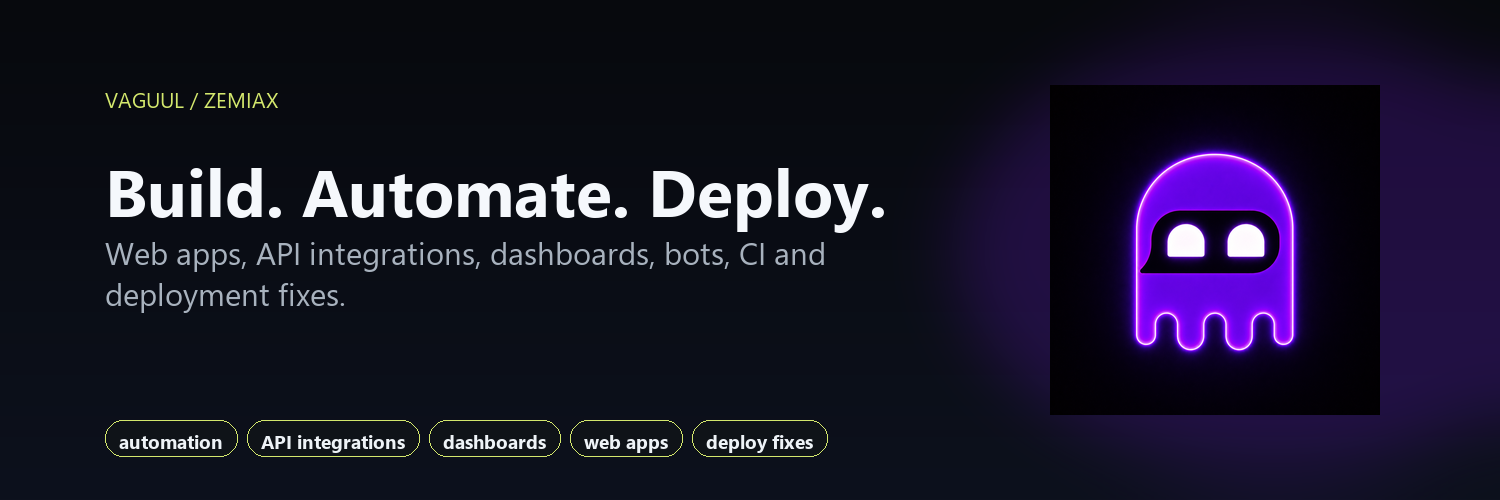
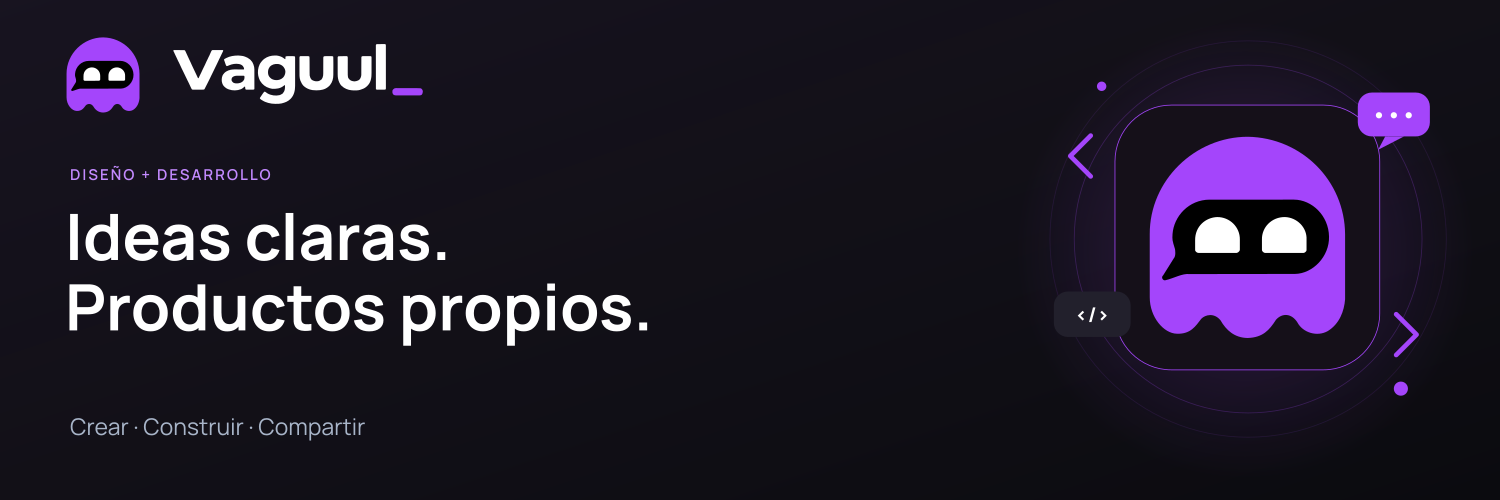
Apply approved Vaguul branding assets (#7)

diff --git a/index.html b/index.html
@@ -9,15 +9,16 @@
     <meta property="og:description" content="Automation, bot tooling, and self-hosted applications. Public code and selected contributions." />
     <meta property="og:type" content="website" />
     <meta property="og:url" content="https://vaguul.github.io/portfolio/" />
-    <meta property="og:image" content="https://vaguul.github.io/portfolio/assets/vaguul-github-banner.png" />
+    <meta property="og:image" content="https://vaguul.github.io/portfolio/assets/vaguul-social.png?v=20261113" />
     <meta name="twitter:card" content="summary_large_image" />
-    <link rel="stylesheet" href="./styles.css" />
+    <link rel="icon" type="image/svg+xml" href="./assets/favicon.svg?v=20261113" />
+    <link rel="stylesheet" href="./styles.css?v=20261113" />
   </head>
   <body>
     <a class="skip-link" href="#main" data-i18n="skip">Skip to content</a>
     <div class="page-shell">
       <header class="topbar">
-        <a class="brand" href="#top">Vaguul</a>
+        <a class="brand" href="#top" aria-label="Vaguul"><img src="./assets/vaguul-logo.svg?v=20261113" alt="Vaguul" width="150" height="50" /></a>
         <nav class="topnav" aria-label="Primary">
           <a href="#public" data-i18n="navPublic">Public code</a>
           <a href="#work" data-i18n="navWork">Products</a>
@@ -42,7 +43,7 @@
             <a href="https://github.com/Daebor">Daebor</a>
             <a href="#contact" data-i18n="contactLink">Work with me</a>
           </div>
-          <img class="brand-banner" src="./assets/vaguul-github-banner.png" alt="Vaguul / Zemiax — web apps, APIs and automation" width="1200" height="400" decoding="async" />
+          <img class="brand-banner" src="./assets/vaguul-github-banner.png?v=20261113" alt="Vaguul — diseño y desarrollo" width="1200" height="400" decoding="async" />
         </section>
 
         <section class="section" id="public" aria-labelledby="public-title">

diff --git a/styles.css b/styles.css
@@ -4,7 +4,7 @@
   --text: #f0f1f2;
   --muted: #b5b9bd;
   --line: #303337;
-  --accent: #d4e86d;
+  --accent: #c38aff;
 }
 * { box-sizing: border-box; }
 html { scroll-behavior: smooth; }
@@ -17,11 +17,12 @@ a:focus-visible, button:focus-visible { outline: 2px solid var(--accent); outlin
 .skip-link:focus { top: 12px; }
 .topbar { display: flex; align-items: center; gap: 24px; flex-wrap: wrap; padding: 24px 0; border-bottom: 1px solid var(--line); }
 .brand { font-weight: 700; text-decoration: none; color: var(--accent); white-space: nowrap; }
+.brand img { display: block; width: 150px; height: 50px; object-fit: contain; }
 .topnav { display: flex; gap: 20px; flex-wrap: wrap; margin-left: auto; }
 .topnav a { text-decoration: none; font-size: 14px; }
 .lang-toggle { display: flex; flex-shrink: 0; border: 1px solid var(--line); border-radius: 6px; overflow: hidden; }
 .lang-button { min-width: 42px; min-height: 36px; border: 0; background: transparent; color: var(--muted); cursor: pointer; font: inherit; font-size: 13px; }
-.lang-button[aria-pressed="true"] { background: var(--accent); color: #171a08; }
+.lang-button[aria-pressed="true"] { background: var(--accent); color: #0b0b0f; }
 .intro { padding: 44px 0 0; }
 .eyebrow, .section-label { margin: 0 0 8px; color: var(--accent); font-size: 13px; font-weight: 600; }
 h1, h2, h3, p { margin: 0; }
